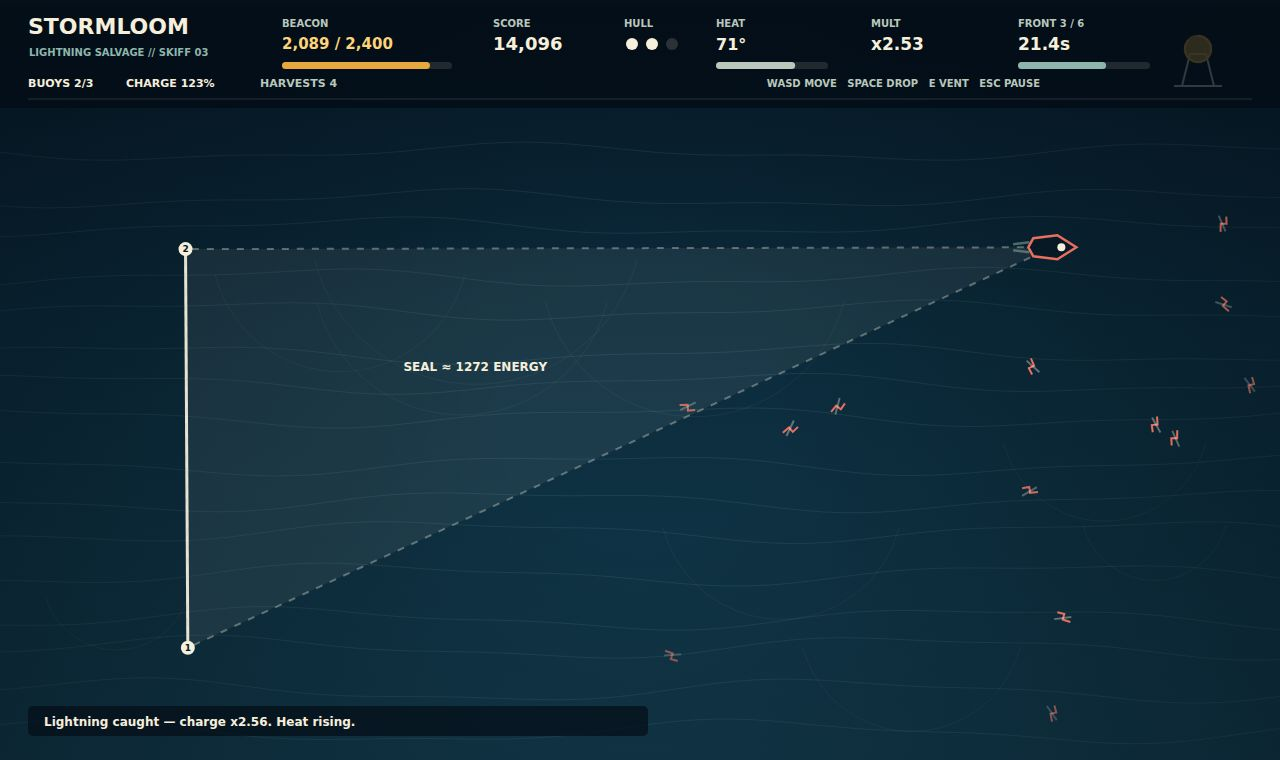
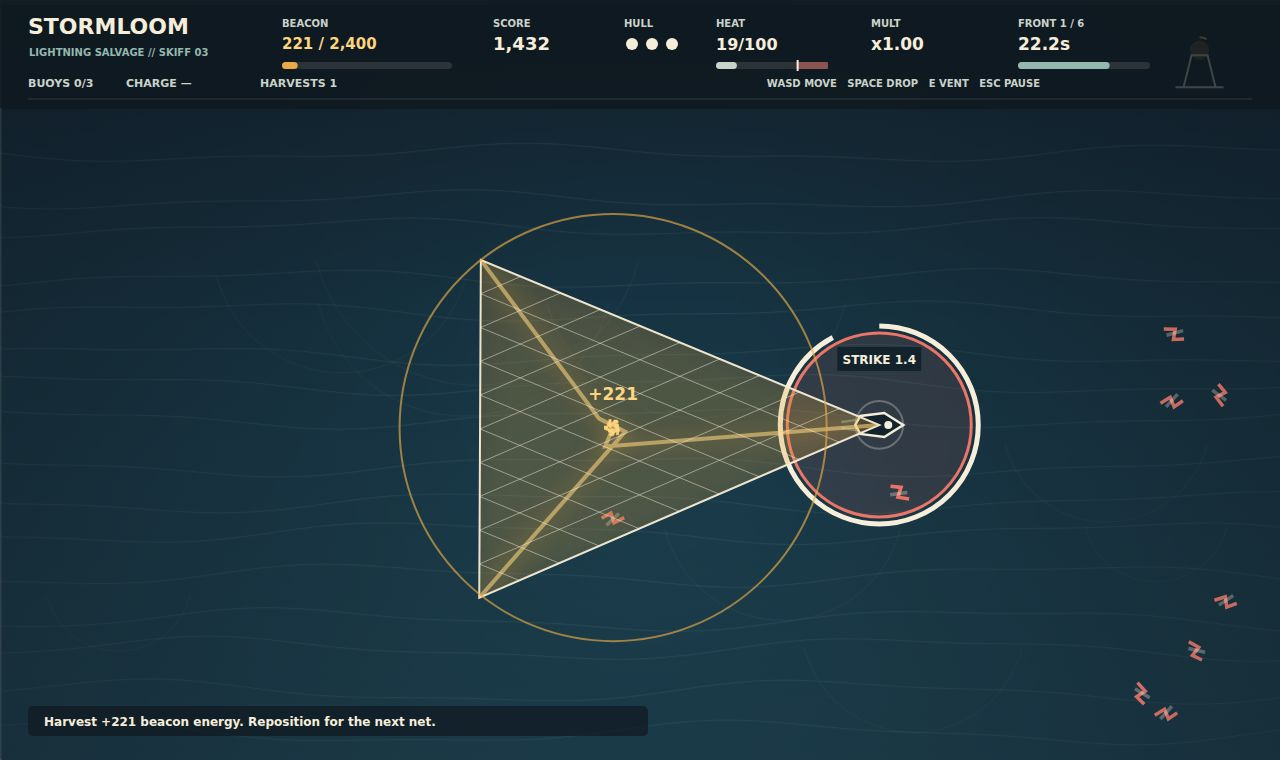
Capture truthful phase-two scenes and document passing QA gates
Record twenty-seed fairness, fixed-step browser replay, artifact determinism and v18 transcript-check evidence; defer squalls.

diff --git a/PHASE2.md b/PHASE2.md
@@ -1,0 +1,71 @@
+# Phase 2 handoff — 2026-11-16
+
+## Shipped
+
+- **Strikes-only release; no squalls.** The seeded director schedules locked-target `WARNING → IMPACT → RECOVERY` strikes: 1.5-second warning, 0.1-second impact, 0.4-second aftermath, 92-pixel blast radius. Cadence is 8–10 seconds on fronts 1–2, 7–9 on fronts 3–4, and 5–7 on fronts 5–6. Warning budget is at most two; ordinary cadence does not overlap warnings.
+- Coral blast rings have an ivory shrinking countdown arc and a readable countdown label, offset from the targeted skiff and kept below the HUD. A distinct two-voice warning chord reuses existing synth methods; the audio engine is unchanged.
+- Each strike resolves once: one hull damage for skiff overlap, otherwise 18 heat for an intersecting open wire. A hull-targeted strike never also heats the wire, even when immunity absorbs the hit. Sparks and strikes share one-second `hitCooldown`; every hull damage path honors the first six seconds of grace. Strike heat uses the existing overheat/circuit-destruction path.
+- Strike state resets on seeding/restart and freezes on pause and retrofit menus. Defeats identify lightning, sparks, overheat, or dawn, including the front for impact/overheat causes.
+- Start hides the live HUD, timer, hint, beacon, and inactive skiff. Controls no longer overlap; secondary text is brighter. Charge labels show the actual multiplier, heat is `/100`, and the heat bar marks its danger zone above 72.
+- Result screens omit the live HUD and hint, use **FRONTS COMPLETED**, retain the real defeat subtitle, and place stats on an opaque panel. Charged open wires have thicker ivory cores and amber glow; harvested triangles briefly discharge inside their actual geometry. Sparks have larger coral glyphs. Reduced motion skips camera shake, new glows/pulses, and spark rotation while retaining readable fading marks.
+- Energy/reward numbers, crossing heat, upgrade structure/numerical effects, fixed-step simulation, seeded RNG approach, file layout, dependencies, and offline runtime are unchanged. `vendor/` and `synth-audio.js` are unchanged.
+
+## QA evidence
+
+Tests live outside the repository in `~/makefun/stormloom-qa/`. Browser tests use actual keyboard/mouse input and detached `inspectRun()` telemetry, never scene setters, granted energy, invulnerability, or forced result screens.
+
+| Gate | Result |
+| --- | --- |
+| Existing winning gate, strengthened to require victory | PASS: roughly 53 seconds, five harvests, 2,400 energy, two hull points |
+| Charge / vent / overheat | PASS: charge sacrificed without gaining energy; one overheat damages hull and clears the unfinished net |
+| Hull defeat | PASS: chased real sparks; specific spark/front subtitle |
+| Strike dodge / target lock | PASS: escaped the first aimed warning without hull loss; target coordinates unchanged |
+| Strike hit / defeat | PASS: stayed in warning centers; real defeat says `Struck by lightning on front 2` |
+| Dawn defeat / both retrofit windows | PASS: six fronts completed, three hull points, Cooling Fins and Reinforced Hull selected |
+| Pause / keyboard and mouse restart | PASS: complete diagnostic snapshot freezes during a warning; restart clears strikes, bonuses, upgrades, counters and energy, retaining settings |
+| Console / page errors / network | None; full winning run makes no requests after its 13 local startup requests and no external requests |
+| Reduced motion | PASS: winning run with comfort setting enabled; canvas instrumentation observed zero positive shadow-blur writes; camera shake/full-screen flash are gated off |
+| Full-input simulation replay | PASS: identical seeded 1/60-step inputs and complete simulation snapshots, not just director RNG output |
+| Actual-browser fixed-step replay | PASS: two fresh pages have identical full telemetry at seven keyboard-input checkpoints |
+| Fairness probe | PASS: 20 seeded six-front runs, 499 warnings; all targets locked; maximum observed concurrent warning count 1 (budget 2) |
+| Escape margin | Worst sampled center escape 0.467 seconds, including current velocity, steering response and walls; below half the 1.5-second warning (0.75 seconds) |
+| Geometry / rejected nets / bounded effects / numerical upgrades / guard | PASS |
+| Hand-in determinism / vendor | PASS: two fresh `MAKEFUN_OUTPUT_DIR` executions byte-identical; vendor matches v18 starter |
+| v18 repository/transcript precheck | **13 passed, 0 failed, 6 skipped, 5 checked at submission** |
+
+The old stationary-wait edge harness died to the newly added strikes, so its waits now dodge warnings through ordinary input and return to a safe area. Its hull-guard check permits an actually consumed guard. Browser clocks are installed and paused before navigation. Replay inputs are synchronized to simulation ticks rather than renderer/navigation timing; equal wall-time key holds can straddle different RAF boundaries without being identical fixed-step inputs. A QA server also reached its background time limit; it was restarted and all final gates rerun successfully. No game balance was changed to rescue these tests.
+
+Reusable commands (run servers separately; `phase2-browser.py` and capture use port 8082):
+
+```sh
+node serve.ts
+node serve.ts --port 8082
+~/makefun/stormloom-qa/venv/bin/python -I ~/makefun/stormloom-qa/gate.py
+~/makefun/stormloom-qa/venv/bin/python -I ~/makefun/stormloom-qa/edge_cases.py
+~/makefun/stormloom-qa/venv/bin/python -I ~/makefun/stormloom-qa/phase2-browser.py
+node ~/makefun/stormloom-qa/logic-check.mjs
+node ~/makefun/stormloom-qa/phase2-logic.mjs
+```
+
+Evidence: `phase2-browser-report.json`, `phase2-edge-report.json`, `phase2-logic-report.json`, `phase2-browser-replay.json`, `phase2-capture-report.json`, and the gate/check logs in that external QA directory. The separate replay script also passes independently.
+
+## Screenshots and provenance
+
+All four replacement images are real, unedited 1280×760 Chromium captures taken after the gameplay gates passed: a charged 221-energy harvest with a visible strike warning, clean start, actual victory, and actual lightning defeat. Each is below 73 KB, far below 256 KiB. `shots.json` explains the transient harvest, reset multiplier, earned stats, settings and capture method honestly. The capture script is external: `phase2-capture.py`. Final image inspection caught a warning label behind the skiff; its placement was fixed, all gameplay gates rerun, then the final scenes recaptured.
+
+The separate `makefun record` launch did **not** start: its log says this competition takes uploaded transcript bundles instead. Provenance therefore uses the genuine native build-session recordings, exported with the v18 `bundle` command, including both build sessions and discovered families. No transcript was manufactured or rewritten. The final bundle is external at `~/makefun/stormloom-qa/phase2-transcripts.tar.gz`; export it again after future work.
+
+The check uses the entry repository, not the kit as `--repo`; add `--worktree` before committing, omit it to validate committed HEAD:
+
+```sh
+node ~/makefun/bestgame-kit-v18/cli/makefun.mjs check \
+  --kit ~/makefun/bestgame-kit-v18 --repo ~/makefun/stormloom \
+  --transcripts ~/makefun/stormloom-qa/phase2-transcripts.tar.gz
+```
+
+## Remaining risks / next phase
+
+- Squalls were deliberately deferred rather than shipping an unverified three-strike overlap/escape-corridor design. This phase claims only fair, standalone telegraphed strikes.
+- The 20-seed probe establishes a sampled geometric escape margin, not a proof that every combination of sparks, voluntary overheating and player decisions is safe. Do not remove the margin or add overlapping hazards without new browser/fairness probes.
+- The kit auto-discovers older outside-project sessions from historical reads and notes two missing archived subagent records in one such family. The current build sessions are present and local checks still pass; preserve that disclosure and resolve archive completeness before final submission. Gitleaks is unavailable locally; the kit used its built-in transcript redaction.
+- Public ownership, repository creation time, pushed revision and other server-only checks remain deferred. Local `check` is not a game grade or a submission. **No submission was made.**

diff --git a/README.md b/README.md
@@ -6,7 +6,7 @@
 
 **STORMLOOM — Relight the beacon before dawn.** Steer a salvage skiff across an engraved, ink-blue sea. Place three conductive buoys to seal a triangular lightning net, harvest energy, and reposition. Stretch farther for larger returns; lightning crossing an open wire increases both its multiplier and its heat. Vent before the unfinished circuit overheats, and avoid drifting sparks with your three-point hull.
 
-Phase 1 is playable: start, six storm fronts, two retrofit windows, victory, hull-loss and dawn-loss defeat, pause, and immediate restart. Telegraphed damaging strikes, pursuing squalls, the final art/audio pass, and the competition submission are reserved for phases 2–3. The screenshots currently show real development playtests, not a final promotional capture.
+Phase 2 adds seeded, telegraphed lightning strikes to the full playable loop: start, six storm fronts, two retrofit windows, victory, specific hull-loss and dawn-loss defeats, pause, and immediate restart. Strike targets lock when their 1.5-second warning begins; leave the coral ring before the countdown closes. A strike hits the hull or heats an open wire, never both directly. This release is strikes-only: pursuing squalls are deliberately deferred rather than shipping unverified overlapping hazards. All four screenshots are unedited captures of real browser play.
 
 ## Run it
 
@@ -38,7 +38,7 @@ mkdir -p out
 MAKEFUN_OUTPUT_DIR=out node main.ts
 ```
 
-`main.ts` copies `game/` and `screenshots/` and writes the dossier using the unchanged kit library in `vendor/makefun-game.ts`. Development testing and remaining scope are recorded in [PHASE1.md](PHASE1.md).
+`main.ts` copies `game/` and `screenshots/` and writes the dossier using the unchanged kit library in `vendor/makefun-game.ts`. Development testing and remaining scope are recorded in [PHASE1.md](PHASE1.md) and [PHASE2.md](PHASE2.md).
 
 ---
 
